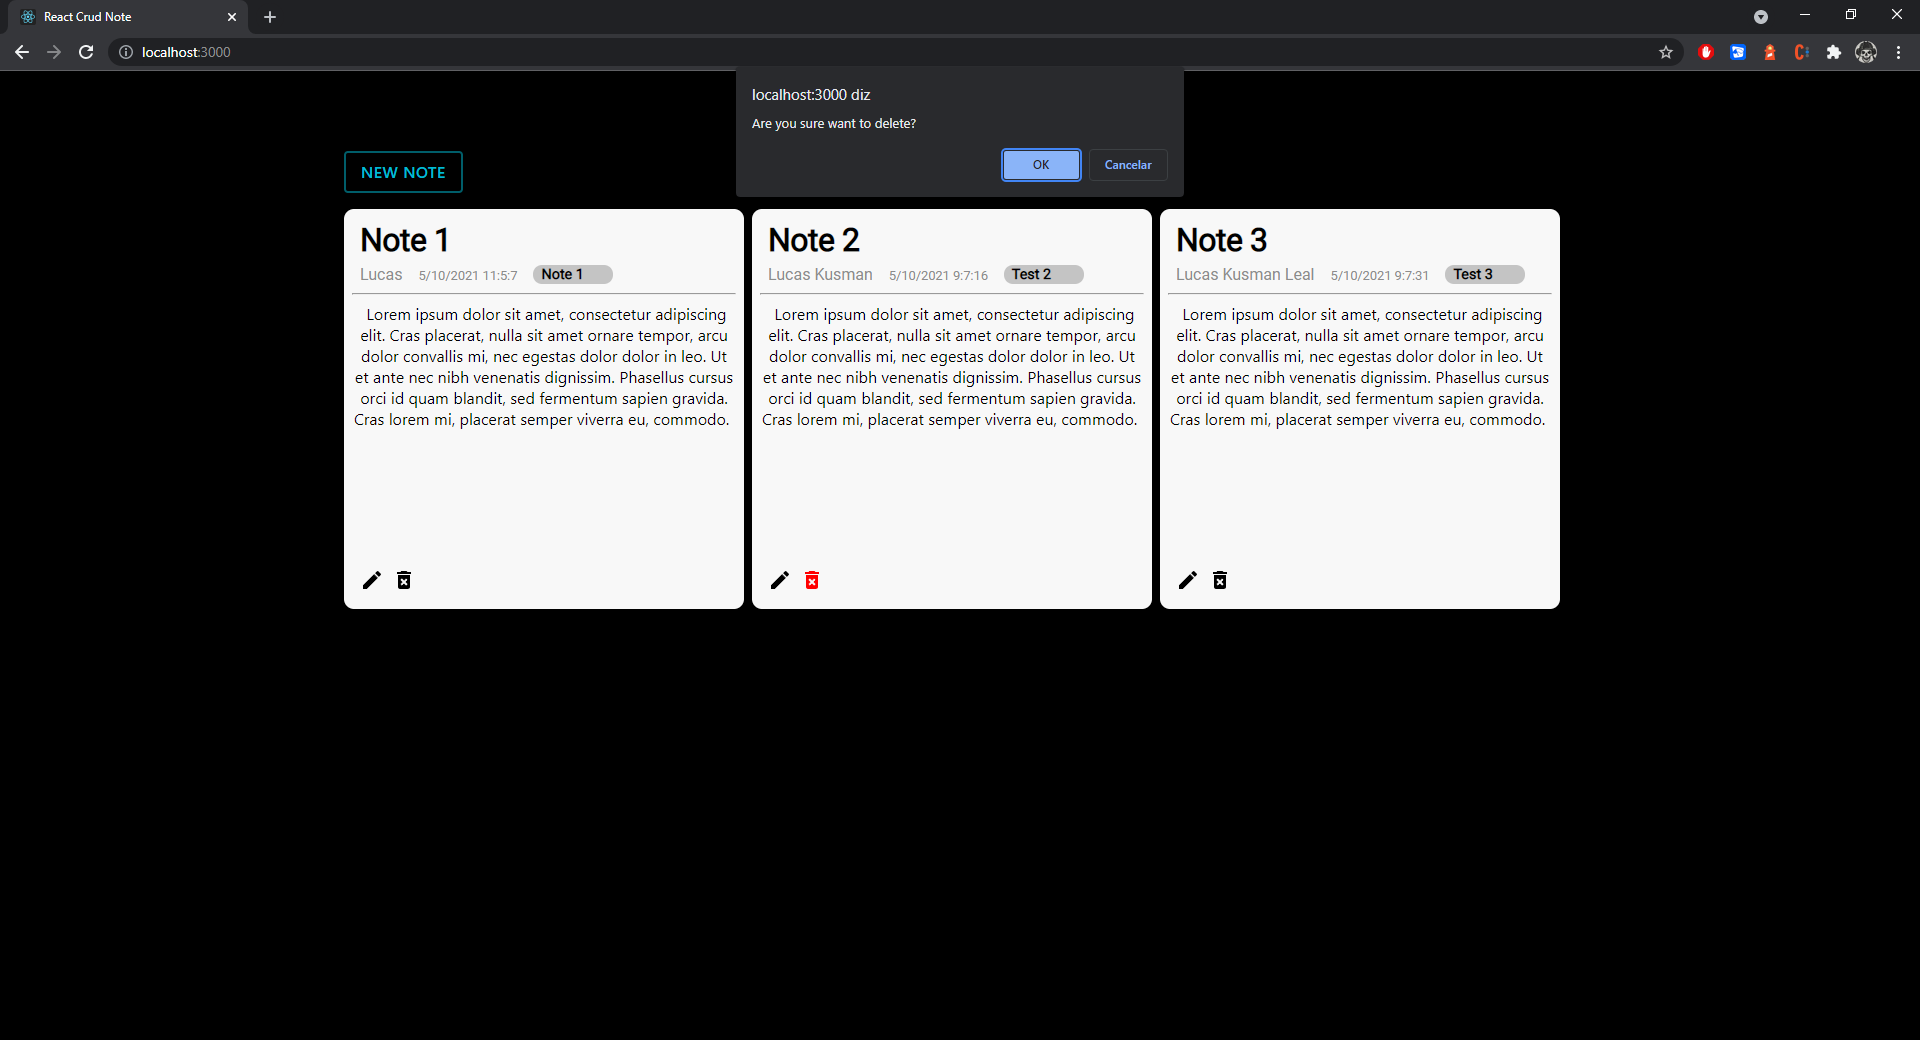
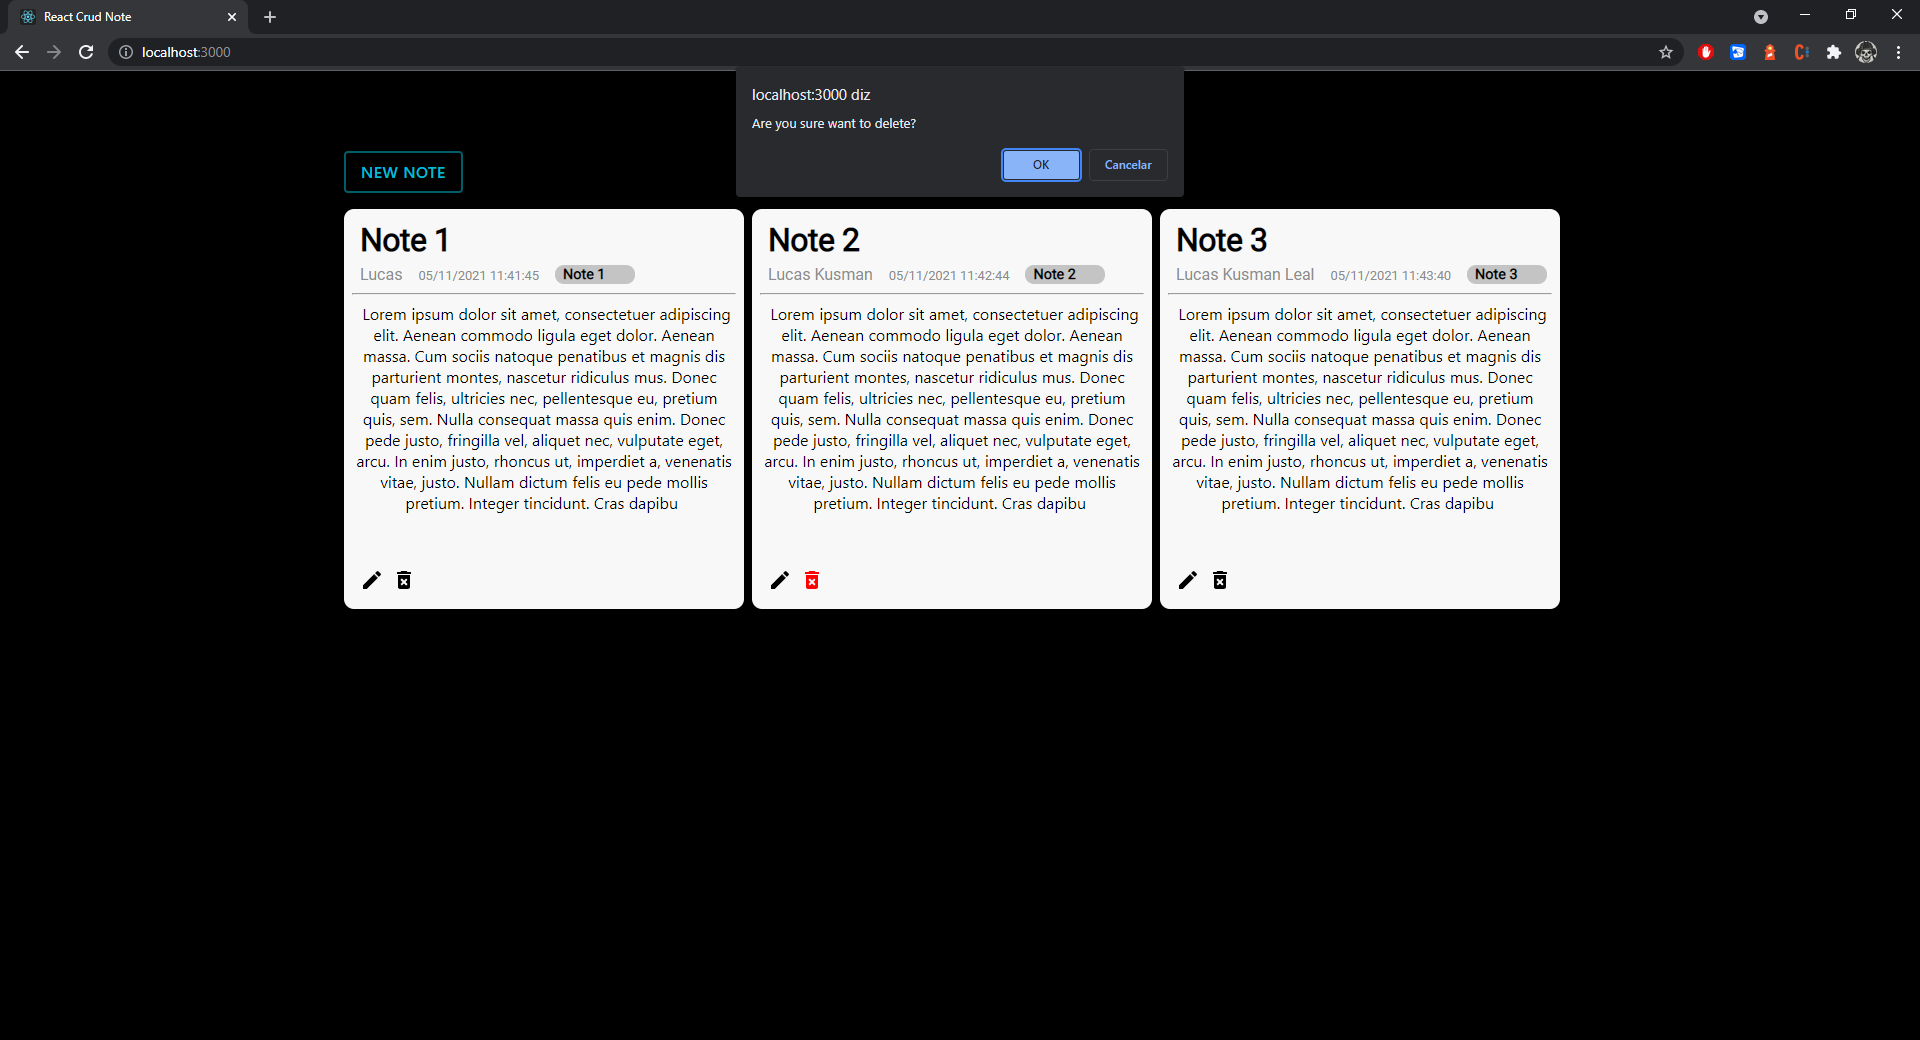
react-crud-note 0.1.1
-Atualizado função que gera a data de criação e modificação da nota.
-Adicionado limite da quantia de caracteres nos inputs.

Changed region(s): [[0.1875, 0.2462, 0.8125, 0.4923]]

diff --git a/client/src/pages/AddNote/index.js b/client/src/pages/AddNote/index.js
@@ -31,16 +31,21 @@ function AddNote() {
   const sendNote = () => {
 
     let datetime = new Date();
-    let date = datetime.getDate()+"/"+datetime.getMonth()+"/"+datetime.getFullYear() + " ";
-    let time = datetime.getHours()+":"+datetime.getMinutes()+":"+datetime.getSeconds();
-    let formatedDatetime = date + time;
+    let dateResult = datetime.toLocaleDateString("pt-br", {
+      year: "numeric",
+      month: "2-digit",
+      day: "2-digit",
+      hour: 'numeric',
+      minute: 'numeric',
+      second: 'numeric',
+    });
 
     Axios.post("http://localhost:3001/insert", {
       title: title, 
       text: text, 
       tag: tag, 
       author: author, 
-      datetime: formatedDatetime,
+      datetime: dateResult,
     })
     .then(() => {
       console.log("Successful sendNote");
@@ -58,22 +63,22 @@ function AddNote() {
 
             <div style={{"marginLeft": "3rem"}}>
               <Typography variant="h6" style={{"color": "white", "text-align": "left"}}>Note title</Typography>
-              <input type="text" placeholder="Title" className="text-input" onChange={(e) => {setTitle(e.target.value)}} />
+              <input type="text" maxLength="45" placeholder="Title" className="text-input" onChange={(e) => {setTitle(e.target.value)}} />
             </div>
 
             <div style={{"marginLeft": "3rem", "marginTop": "3rem"}}>
               <Typography variant="h6" style={{"color": "white", "text-align": "left"}}>Note text</Typography>
-              <textarea placeholder="Multiline text" className="textarea-input" onChange={(e) => {setText(e.target.value)}} />
+              <textarea placeholder="Multiline text" maxLength="500" className="textarea-input" onChange={(e) => {setText(e.target.value)}} />
             </div>
 
             <div style={{"marginLeft": "3rem", "marginTop": "5rem"}}>
               <Typography variant="h6" style={{"color": "white", "text-align": "left"}}>Note tag</Typography>
-              <input type="text" placeholder="Category, tags..." className="text-input" onChange={(e) => {setTag(e.target.value)}} />
+              <input type="text" maxLength="20" placeholder="Category, tags..." className="text-input" onChange={(e) => {setTag(e.target.value)}} />
             </div>
 
             <div style={{"marginLeft": "3rem", "marginTop": "3rem"}}>
               <Typography variant="h6" style={{"color": "white", "text-align": "left"}}>Note author</Typography>
-              <input type="text" placeholder="Name" className="text-input" onChange={(e) => {setAuthor(e.target.value)}}/>
+              <input type="text" placeholder="Name" maxLength="45" className="text-input" onChange={(e) => {setAuthor(e.target.value)}}/>
             </div>
 
           </div>

diff --git a/client/src/pages/EditNote/index.js b/client/src/pages/EditNote/index.js
@@ -29,16 +29,21 @@ function EditNote() {
     const edit = (id) => {
 
         let datetime = new Date();
-        let date = datetime.getDate()+"/"+datetime.getMonth()+"/"+datetime.getFullYear() + " ";
-        let time = datetime.getHours()+":"+datetime.getMinutes()+":"+datetime.getSeconds();
-        let formatedDatetime = date + time;
+        let dateResult = datetime.toLocaleDateString("pt-br", {
+            year: "numeric",
+            month: "2-digit",
+            day: "2-digit",
+            hour: 'numeric',
+            minute: 'numeric',
+            second: 'numeric',
+        });
 
         Axios.put("http://localhost:3001/update", { 
             id: id,
             title: title,
             tag: tag,
             text: text,
-            datetime: formatedDatetime
+            datetime: dateResult
         }).then(() => {
             console.log("Edits updated successful");
             history.push("/");
@@ -125,11 +130,11 @@ function EditNote() {
 
                         <div className="note-header">
 
-                            <input type="text" defaultValue={note.title} style={titleInputStyle} onChange={ (e) => {setTitle(e.target.value)} } />
+                            <input type="text" maxLength="45" defaultValue={note.title} style={titleInputStyle} onChange={ (e) => {setTitle(e.target.value)} } />
                             
                             <div style={{"display": "flex"}}>
                                 <Typography variant="h5" style={noteAuthorStyle}>{note.author}</Typography>
-                                <input type="text" defaultValue={note.tag} style={tagInputStyle} onChange={ (e) => {setTag(e.target.value)} }/>
+                                <input type="text" maxLength="20" defaultValue={note.tag} style={tagInputStyle} onChange={ (e) => {setTag(e.target.value)} }/>
                             </div>
 
                         </div>
@@ -137,7 +142,7 @@ function EditNote() {
                         <hr style={{"marginTop": "0.5rem"}}/>
 
                         <div className="note-body">
-                            <textarea defaultValue={note.text} style={textAreaStyle} onChange={ (e) => {setText(e.target.value)} }></textarea>
+                            <textarea defaultValue={note.text} maxLength="500" style={textAreaStyle} onChange={ (e) => {setText(e.target.value)} }></textarea>
                         </div>
 
                     </div>
